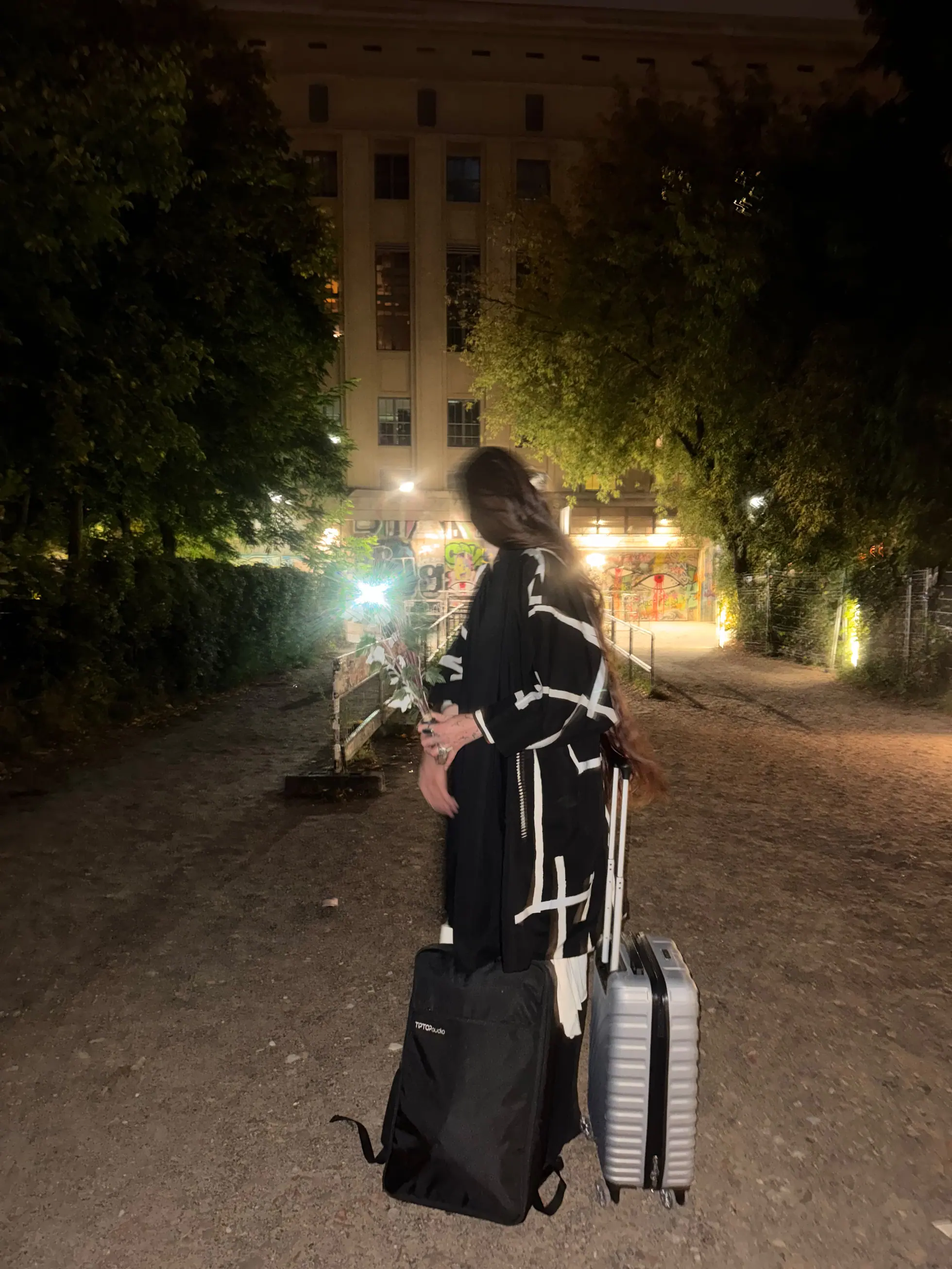
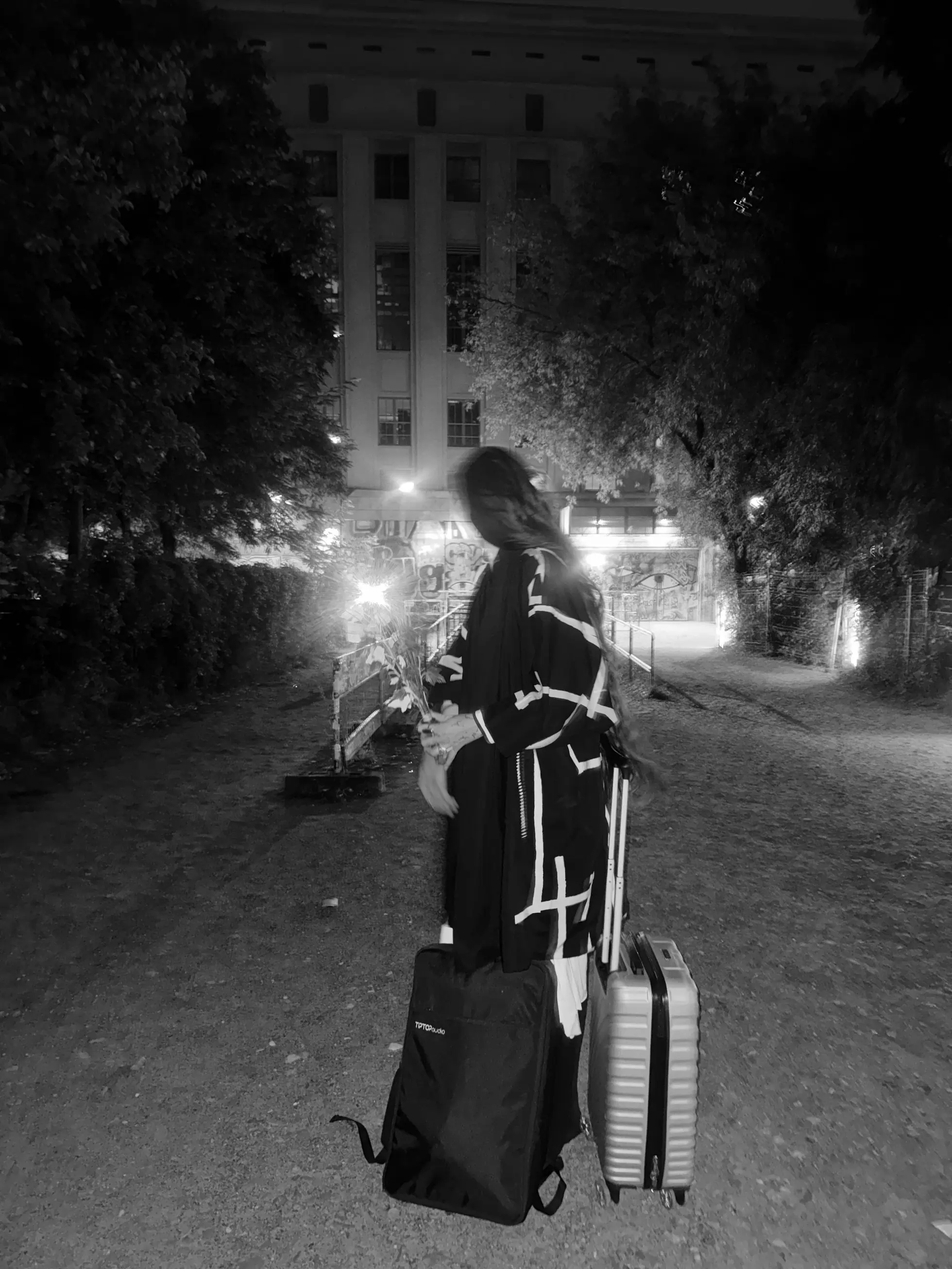
Säule: rewrite in a plainer voice, correct the genre, lead image to B&W
Rewrites on Ninon's notes.

Voice. Removed the constructed closing lines ("Two instruments were played that
night. One of them was the building.", "that seemed like the right trade.",
"Standing in the room while it rang back is the part I will remember."). They
were aphorisms placed for effect, and they read as machine-written. Sections now
end on a fact or an honest admission instead: that she could not hear the room
from the booth and only learned afterwards whether it had worked, and that she
was not sure the whole thing would work until the night.

No em dashes anywhere in the page or in the Sound listing note. The character is
absent from a French keyboard, so it is a visible tell.

Genre corrected. The set stayed close to techno for most of its length. The
earlier text repeated the promoter's framing about moving out of techno into
experimental and cinematic forms, which was not what happened.

Setup corrected. The page no longer implies the night was played on two
instruments. The room and the Neurorack are what made the set specific to Säule,
but both sat inside her full live rig rather than replacing it.

Also removed "rather than rendering files offline", which did not say anything,
and added that the set was composed from scratch for the room and the Neurorack
rebuilt over the preceding months.

The lead photograph is converted to black and white, which suits the dark palette
far better than the original colour. Derivatives regenerated.

diff --git a/_pages/sound/saule.md b/_pages/sound/saule.md
@@ -3,14 +3,14 @@ layout: performance
 permalink: /sound/saule/
 title: "Säule, Berghain"
 eyebrow: "Live · Berlin · September 2026"
-excerpt: "A live set built from two instruments: the Neurorack, and the room itself. Säule was measured beforehand for the low frequencies its architecture reinforces, and those resonances were played as material rather than corrected away."
-description: "A live set at Säule, Berghain, Berlin, September 2026. The room's low-frequency response was measured in advance and used as compositional material, alongside the Neurorack — a neural synthesiser built during a PhD at IRCAM."
+excerpt: "A techno set composed from scratch for Säule. The low frequencies the hall itself reinforces were measured in advance and played as material, alongside the Neurorack, the neural synthesiser I built during my doctorate at IRCAM."
+description: "A live set at Säule, Berghain, Berlin, September 2026. The room's low-frequency response was measured in advance and used as musical material, alongside the Neurorack, a neural synthesiser built during a doctorate at IRCAM."
 kind: "Live"
 years: "2026"
 
 lead:
   src: /assets/media/sound/saule/saule-berghain-arrival.jpg
-  alt: "Ninon seen from behind on the path outside Berghain at night, in a long black and white coat, holding flowers, a modular synthesiser case and a suitcase standing beside her, the lit facade of the building behind the trees"
+  alt: "Black and white photograph: Ninon seen from behind on the path outside Berghain at night, in a long patterned coat, holding flowers, a modular synthesiser case and a suitcase standing beside her, the lit facade of the building behind the trees"
   present: natural
 
 credits:
@@ -26,44 +26,50 @@ gallery:
     present: natural
 ---
 
-A live set at **Säule**, at Berghain, on 24 September 2026 — research turned into
-instruments, and a set that moved out of techno into more experimental and
-cinematic forms as it went.
+A live set at **Säule**, at Berghain, on 24 September 2026, composed from scratch
+for that room.
 
-Two instruments were played that night. One of them was the building.
+It stayed close to techno for most of its length. What made it specific to Säule
+was the material underneath it: the low frequencies the hall itself reinforces,
+measured in advance and played deliberately, and the [Neurorack](/work/neurorack/),
+the synthesiser I built during my [doctorate](/research/thesis/) at IRCAM and
+spent the preceding months rebuilding. Both of those sat inside my usual live
+setup rather than replacing it.
 
-## The room as an instrument
+## The room
 
-Every room reinforces some frequencies and suppresses others. Its dimensions,
-its materials and its geometry decide which — the behaviour is called a room
-mode, and in the low end a small number of them dominate everything an audience
-hears. Depending on where you stand, certain notes bloom, hang on long after
-they should have stopped, or disappear altogether.
+Every room reinforces some frequencies and suppresses others. Its dimensions, its
+materials and its geometry decide which ones. The behaviour is called a room
+mode, and in the low end a small number of them dominate what an audience
+actually hears: depending on where you stand, certain notes bloom, hang on long
+after they should have stopped, or disappear.
 
-In acoustics this is usually a defect. The standard response is to suppress it:
-absorption, bass traps, correction in the DSP. Säule was approached the other way
-round. Ahead of the show I measured how the room answers through its own
-subwoofer system — which low frequencies its architecture reinforces, how long
-they ring, and how that changes as you move across the floor — and then used what
-the room does as compositional material.
+In acoustics this is a defect, and the usual response is to suppress it with
+absorption, with bass traps, or with correction in the DSP. Säule was approached
+the other way round. I measured how the room answers through its own subwoofer
+system, which low frequencies its architecture reinforces, how long they ring,
+and how that changes as you move across the floor, and then used what the room
+does as material.
+
+Measuring a space in order to play it rather than to fix it is something I had
+wanted to do for years. Säule was the first room where it was possible.
 
 ## Measuring it
 
 The method was deliberately conservative, because the aim was to describe the
-room as it would actually be played rather than an idealised version of it that
-would not exist on the night.
+room as it would actually be played, not an idealised version of it that would
+not exist on the night.
 
 A swept measurement was sent through the installed subwoofers and captured at
 several positions across the floor, with the venue's crossover, DSP, limiters and
 protection left active throughout. Correcting those out would have produced a
 cleaner characterisation of a system nobody was going to hear.
 
-Positions were chosen to answer specific questions rather than to cover the room
-evenly:
+Positions were chosen to answer specific questions, not to cover the room evenly:
 
 - **No two symmetric about the centre line.** A symmetric pair returns the same
   reading twice and adds nothing.
-- **One in a corner**, where every mode reaches its maximum and the weak ones
+- **One in a corner**, where every mode reaches its maximum and the weaker ones
   become visible at all.
 - **One on the floor**, directly beneath the reference position. A vertical mode
   is strongest at floor level and almost nothing else in a room behaves that way,
@@ -75,12 +81,11 @@ evenly:
   locally and would otherwise contaminate a reading with something that is not a
   property of the room as a whole.
 
-There is a hard ceiling on this way of working, and it is physical rather than
-practical. Above a certain frequency the modes of any room crowd together and
-overlap into a continuous, statistical response; individual resonances stop being
-individually meaningful, and the room stops being a thing you can play note by
-note. That transition is where the method stops. It is the reason the whole
-exercise lives in the low end.
+There is a ceiling on this way of working, and it is physical rather than
+practical. Above a certain frequency the modes of any room crowd together into a
+continuous, statistical response, and individual resonances stop being
+individually meaningful. That transition is where the method stops. It is the
+reason the whole exercise lives in the low end.
 
 ## Playing it
 
@@ -89,57 +94,59 @@ room is disposed to amplify and sustain, and where it is not.
 
 Played deliberately, those are notes the building finishes for you. The sound
 leaves the subwoofers, the architecture resonates along with it, and the decay
-belongs to the room rather than to the synthesiser — the rumble is not an effect
-on the signal, it is the hall responding at its own rate.
+belongs to the room rather than to the synthesiser. The rumble is not an effect
+applied to the signal. It is the hall answering at its own rate.
 
-The honest qualification is that a room's response is not uniform. The effect is
-strongest in some parts of the floor and thinner in others, and no amount of
-measurement changes that. Treating resonance as material means accepting that the
-piece is not identical everywhere in the room. In a concrete hall with a crowd
-that moves through it, that seemed like the right trade.
+The qualification worth stating is that a room's response is never uniform. The
+effect is strong in some parts of the floor and thinner in others, and no amount
+of measurement changes that. Working this way means accepting that the piece is
+not the same in every part of the room, which is a condition of the material and
+not a flaw in it.
+
+From the booth I could not hear any of it. Whether the room was doing what I had
+designed it to do was something I only found out afterwards, from people who had
+been standing out on the floor.
 
 ## The Neurorack
 
-The second instrument was the [Neurorack](/work/neurorack/), the synthesiser
-built during my [doctorate](/research/thesis/) at IRCAM: a Eurorack module with a
-neural network running inside it on embedded hardware, generating audio live as a
-playable voice rather than rendering files offline.
+The Neurorack is a Eurorack module with a neural network running on embedded
+hardware inside it, generating audio as a playable voice. I built it during my
+doctorate; I spent the months before Säule developing it further, both in how it
+sounds and in how it is played.
 
-Recent work has changed what it can do.
-
-The module now carries two ways of producing sound — neural resynthesis of a
-trained model, and a granular engine reading the same material — and they are not
-two modes with a switch between them. They blend continuously, so an intermediate
-setting is genuinely both engines running at once, not a crossfade between two
+It now carries two ways of producing sound, neural resynthesis of a trained model
+and a granular engine reading the same material, and they are not two modes with
+a switch between them. They blend continuously, so an intermediate setting is
+genuinely both engines running at once rather than a crossfade between two
 finished results.
 
 Sound sets can be morphed into one another, traversing between the darkest and
-the brightest material in the pool. They can also be hybridised: the body of one
-sound with the tail of another, which a morph cannot produce, because morphing
-moves every characteristic together.
+the brightest material in the pool. They can also be hybridised, taking the body
+of one sound and the tail of another, which a morph cannot produce, because
+morphing moves every characteristic together.
 
-The controls are the part that matters musically. Rather than exposing synthesis
-parameters, the module exposes perceptual descriptors — weight, brightness,
-noisiness, the grain in a sound — as axes you can turn, or patch to CV and sweep
-across a note. These are not controls a conventional module has, because they do
-not correspond to any single component of a synthesiser. They are properties of
-the result, and they are the terms a musician actually thinks in.
+The controls are the part that matters musically. Instead of exposing synthesis
+parameters, the module exposes perceptual descriptors, weight, brightness,
+noisiness, the grain in a sound, as axes you can turn, or patch to CV and sweep
+across a note. No conventional module has these controls, because they do not
+correspond to any single component of a synthesiser. They are properties of the
+result, and they are the terms a musician actually thinks in.
 
 A held gate keeps generation running past the natural length of the source
 material, drifting as it goes, which turns a module built around percussive hits
-into one that can also sustain. And generation is deterministic: the same
+into one that can also sustain. Generation is deterministic as well: the same
 conditioning produces the same audio every time. For a live set that is not a
-technical nicety — it means a sound found in rehearsal is still there at one in
+technical nicety. It means a sound found in rehearsal is still there at one in
 the morning.
 
 ## Both
 
-The two instruments pull in the same direction. In each case something normally
-treated as a fixed condition — the acoustics you are given, the model you are
-handed — is opened up and made playable.
+What the room and the instrument have in common is that each is normally a fixed
+condition. The acoustics of a venue are something you work around. A generative
+model is something whose output you accept. Opening either one up is the same
+gesture, and this was an attempt to do it to both at once, inside a techno set
+rather than apart from one.
 
-That is also why the set drifted out of techno as it ran. It is less a change of
-genre than what follows from the material: when the instruments are a building
-and a generative model, the music tends toward the cinematic on its own.
-
-Standing in the room while it rang back is the part I will remember.
+It is the most demanding thing I have made, and I was not sure it would work
+until the night itself. Säule's team gave me the empty room and the system to
+measure it with, which is not a small thing to ask of a venue.
